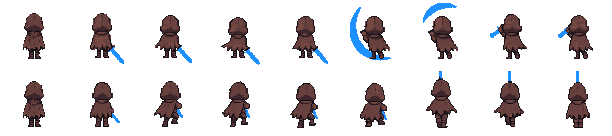
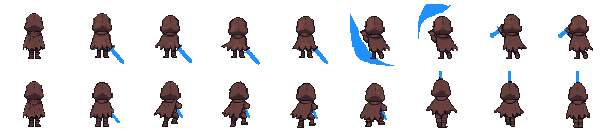
fix: 후면 2타 잔상을 정면 잔상 모양으로
계산으로 그린 호 대신 정면 같은 장(5·6번째)의 잔상을 몸 가운데 기준으로
좌우로 뒤집어 그대로 쓴다 (몸 뒤에 그림).

diff --git a/PRE-PRD.md b/PRE-PRD.md
@@ -102,6 +102,7 @@
     **후면 2타 일관성 (같은 날 사용자 요청)**: 3타와 같은 방법으로, 받은 그림 중 정면 8장과 장마다 같은 것(1~4 똑바로 서서 칼을 오른쪽 아래로,
     5 쳐올림, 6~8 발을 디딘 채 왼쪽 어깨에서 칼을 왼쪽으로)으로 바꿈. 예전 그림은 6~8 에서 다리가 걷듯 벌어졌음.
     순서도 정면과 같게 (같은 날 사용자 지적: 후면이 한 박자 먼저 멈춤): 5 쳐올림(칼이 잔상 위에 보임) → 6 칼을 쳐든 채 머리 위 잔상 → 7·8 멈춤.
+    잔상 모양도 정면처럼 (같은 날 사용자 요청): 5·6번째 잔상은 정면 같은 장의 잔상을 좌우로 뒤집어 그대로 씀 (몸 뒤에 그림).
     다리도 정면처럼 (같은 날 사용자 지적: 다리 위치): 1~4 는 같은 선 자세, 5~8 은 오른발을 뒤로 든 같은 자세로 고정 (장마다 꿈틀거리지 않게).
     **후면 3타 일관성 (2026-11-20 사용자 결정)**: 동작이 멋있는 것보다 측면·정면 찌르기와 같은 동작이어야 함. 받은 그림 중 정면 8장과
     장마다 같은 것(똑바로 서서 오른쪽 허리로 당김 → 발을 모으고 찌름, 팔은 몸에 가려지고 칼날만 후드 위로)으로 바꿈.

diff --git a/docs/HANDOFF.md b/docs/HANDOFF.md
@@ -30,6 +30,8 @@
   게임에서 칼을 그림 (FORCE_SMEAR·KEEP_WHOLE_SMEAR 에 ('backv3_2', 6) 추가).
 - 다리 통일 (사용자 지적: 다리 위치·모션): `build_attack_back_v3.py` HITS[2]['legs'] = {2·3·4: 1, 5·6·8: 7}, `swap_legs` 가
   LEG_Y(51) 아래를 다른 장의 다리로 바꿈(후드 가운데 차이만큼 옮김). config 2타 프레임 보정 줄 갱신.
+- 후면 2타 잔상 모양 (사용자 요청: 정면처럼): `build_attack_back_v3.py` 의 `front_smear` 가 정면 게임 그림 같은 장의 잔상 픽셀을
+  몸 가운데(후드) 기준으로 좌우로 뒤집어 파란 잔상으로 옮김 (`'swoosh': [(5, ('front', 4)), (6, ('front', 5))]`). 정면 잔상을 바꾸면 다시 내보내면 따라옴.
 - 세 방향 타이밍 맞춤 (사용자 요청): 같은 시각에 측면·정면·후면을 나란히 찍어 비교. `PLAYER_ATTACK_FRAME_ENDS_FRONT` 1타 4번째 끝 0.4 → 0.44,
   2타 6번째 끝 0.6 → 0.5, `PLAYER_ATTACK_FRAME_ENDS_BACK` 2타도 0.5. 판정 시점(1타 0.34, 2타 0.17, 3타 0.375초)은 세 방향 모두 원래 같았음.
 - 남은 문제 / 다음 할 일: 2타 몸·망토 모션은 사용자 의견 대기. 푸시·PR 보류 중.
